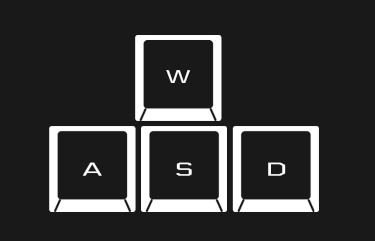
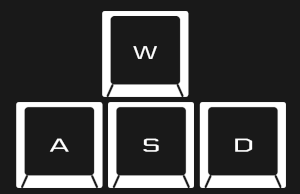
Version 1.0. Final version. Implemets bug attacks animation, some graphic improvements and Controls and Credits menu

Changed region(s): [[0.03, 0.0309, 0.96, 0.9897]]

diff --git a/index.html b/index.html
@@ -30,23 +30,27 @@
       <p><img src="./img/gun-to-laser.png" alt="gun to laser">You can upgrade artillery to laser guns.</p>
       <p><img src="./img/upgrade-img.png" alt="upgrade icon">You can upgrade the damage of any turret.</p>
       <p><img src="./img/silo.png" alt="silo icon">Build silos to gain more money. Tip: highly recommended ;)</p>
-      <p>Use <img src="./img/wasd-image.png" alt="wasd image"> to choose the position you want to buid in and Space Bar to build or Esc to cancel.</p>
-      <p>Use the right bar to build:</p>
     </div>
-    <p>Enjoy!</p>
-    <h2>Credits</h2>
-    <p>Sprites are zerg units from the Starcraft game (Blizzard).</p>
-    <p>Turrets: <a href="http://freegameassets.blogspot.com">Krasi Wasilev.</a></p>
-    <p>Tiles: <a href="https://opengameart.org/content/lots-of-free-2d-tiles-and-sprites-by-hyptosis">hyptosis.</a></p>
-    <p>Background image: <a href="https://www.deviantart.com/pulsatingshadow">pulsatingshadow.</a></p>
-    <p>This game was made in a week for the Ironhack videogame project.</p>
-    <p>Special thanks to Gabi, my TA, and all my classmates.</p>
+    <p>Use <img src="./img/wasd-image.png" alt="wasd image"> to choose the position you want to buid in and <b>Space Bar</b> to build or <b>Esc </b> to cancel.</p>
+    <div class="credits-wrapper">
+      <h2>Credits</h2>
+      <p>Sprites and music: <a href="https://us.shop.battle.net/en-us/product/starcraft">Starcraft</a> (copyrighted by Blizzard).</p>
+      <p>Turret images: <a href="http://freegameassets.blogspot.com">Krasi Wasilev.</a></p>
+      <p>Tiles and graphic resources: <a href="https://opengameart.org/content/lots-of-free-2d-tiles-and-sprites-by-hyptosis">hyptosis.</a></p>
+      <p>Background image: <a href="https://www.deviantart.com/pulsatingshadow">pulsatingshadow.</a></p>
+      <p>Sound effects from <a href="https://www.zapsplat.com">Zapsplat.</a></p>
+      <p>This game was made in a week for the Ironhack videogame project.</p>
+      <p>Special thanks to Gabi, my TA, and all my classmates.</p>
+      <button id="back-to-menu">BACK</button>
+    </div>
   </div>
+
   <div class="main-menu">
     <h1>darkGrim</h1>
     <button id="start-button">START</button>
     <img src="./img/carnibugFrame2.png" alt="roach-image">
     <h2>a robotic-amoeba game :)</h2>
+    <button id = "controls-button">Controls and credits</button>
   </div>
   <div class="game-wrapper">
     <canvas id="game-board" width="1400" height="700"></canvas>

diff --git a/css/menu.css b/css/menu.css
@@ -3,26 +3,41 @@
   height: 100%;
   position: fixed;
   background-color: black;
-  z-index: 30;
+  z-index: 3;
   color: white;
 }
 
-#start-button {
+#start-button, #controls-button, #back-to-menu {
   position: absolute;
-  top: 32%;
-  left: 50%;
-  transform: translateX(-50%);
-  padding: 40px;
   width: 200px;
   font-size: 2em;
   cursor: pointer;
+  left: 50%;
+  transform: translateX(-50%);
+  width: 30%;
+}
+
+#start-button {
+  top: 32%;
+  padding: 40px;
+}
+
+#controls-button {
+  top: 46%;
+  padding: 20px;
+}
+
+#back-to-menu {
+  bottom: 5%;
+  padding: 10px;
+  font-size: 1.5em;
 }
 
 .main-menu img {
 
   position: absolute;
   left: 50%;
-  top: 57%;
+  bottom: 20%;
   transform: translateX(-50%);
 }
 
@@ -30,14 +45,64 @@
 
   position: absolute;
   left: 50%;
-  top: 70%;
+  bottom: 10%;
   transform: translateX(-50%);
+}
+
+.controls-credits {
+  position: fixed;
+  text-align: center;
+  z-index: 4;
+  background-color: black;
+  color: white;
+  width: 100vw;
+  height: 100vh;
+  font-size: 2em;
+  display: none;
+}
+
+.controls-credits h2 {
+  margin-bottom: 20px;
+}
+
+.controls-credits img {
+  width: 100px;
+}
+
+.controls-wrapper {
+  display: flex;
+  width: 70%;
+  justify-content: space-between;
+  flex-wrap: wrap;
+  margin: 0 auto; 
+  font-size: 0.7em;
+}
+
+.controls-wrapper p {
+  width: 20%;
+}
+
+.controls-wrapper img {
+  display: block;
+  margin: 0 auto;
+  width: 90px;
+  padding-bottom: 20px;
+}
+
+.credits-wrapper {
+  font-size: 0.7em;
+  margin-top: 60px;
+}
+
+.credits-wrapper a {
+  text-decoration: none;
+  color: rgb(119, 25, 143);
 }
 
 .game-over {
   font-family: 'Courier New', Courier, monospace;
   position: absolute;
-  z-index: 3;
+  z-index: 2;
   text-align: center;
   padding: 50px;
   color: white;
@@ -49,29 +114,4 @@
   display: none;
   font-size: 3em;
   border-radius: 15px;
-}
-
-.controls-credits {
-  position: fixed;
-  text-align: center;
-  z-index: 5;
-  background-color: black;
-  color: white;
-  width: 100vw;
-  height: 100vh;
-  font-size: 1.5em;
-  display: none;
-}
-
-.controls-credits img {
-  width: 50px;
-  vertical-align: middle;
-}
-
-.controls-wrapper {
-  display: flex;
-  width: 70%;
-  justify-content: space-between;
-  flex-wrap: wrap;
-  margin: 0 auto;
 }

diff --git a/js/Player.js b/js/Player.js
@@ -81,25 +81,25 @@ Player.prototype.placeSelector = function (buttons, elementToBuild) {
 
     switch (event.code) {
 
-      case "ArrowDown":
+      case "KeyS":
         if (this.tileSelector.y < 9) {
           this.tileSelector.y += 1;
         }
         break;
 
-      case "ArrowUp":
+      case "KeyW":
         if (this.tileSelector.y > 0) {
           this.tileSelector.y -= 1;
         }
         break;
 
-      case "ArrowLeft":
+      case "KeyA":
         if (elementToBuild === ("building") && this.tileSelector.x > 15) {
           this.tileSelector.x -= 1;
         }
         break;
 
-      case "ArrowRight":
+      case "KeyD":
         if (elementToBuild === ("building") && this.tileSelector.x < 17) {
           this.tileSelector.x += 1;
         }

diff --git a/js/index.js b/js/index.js
@@ -8,6 +8,18 @@ window.onload = function () {
   let startButton = document.getElementById("start-button");
   var game = new GameMain("game-board");
 
+  let controlsPanel = document.getElementsByClassName("controls-credits")[0];
+  let controlsButton = document.getElementById("controls-button");
+  let backButton = document.getElementById("back-to-menu");
+
+  controlsButton.onclick = function () {
+    controlsPanel.style.display = "block";
+  }
+
+  backButton.onclick = function () {
+    controlsPanel.style.display = "none";
+  }
+
   startButton.onclick = function StartGame() {
 
     startTheme.pause();

diff --git a/js/Bugs.js b/js/Bugs.js
@@ -50,6 +50,16 @@ Bug.prototype.moveFrame = function () {
   }
 }
 
+Bug.prototype.attackFrames = function () {
+  if (this.game.clock % 20) {
+    this.frame = 2;
+    bugAttackSound.play();
+    console.log("attack!");
+  } else {
+    this.frame = 3;
+  }
+}
+
 Bug.prototype.drawBug = function () {
 
   if (this.brood === "bug") {

diff --git a/js/Audio.js b/js/Audio.js
@@ -3,3 +3,4 @@ var mainTheme = new Audio("./audio/main-theme.mp3");
 var laserSound = new Audio("./audio/laser-sound.mp3");
 var gunSound = new Audio("./audio/gun-sound.mp3");
 var splatSound = new Audio("./audio/splat-bug-sound.mp3");
+var bugAttackSound = new Audio ("./audio/bug-attack-sound.mp3");

diff --git a/js/GameMain.js b/js/GameMain.js
@@ -61,6 +61,7 @@ GameMain.prototype.startClock = function () {
       for (let bug of this.bugsArray) {
         if (bug.x >= 13 * TILE_WIDTH) {
           bug.attack();
+          bug.attackFrames();
           bug.drawBug();
         } else {
           bug.moveBug();
